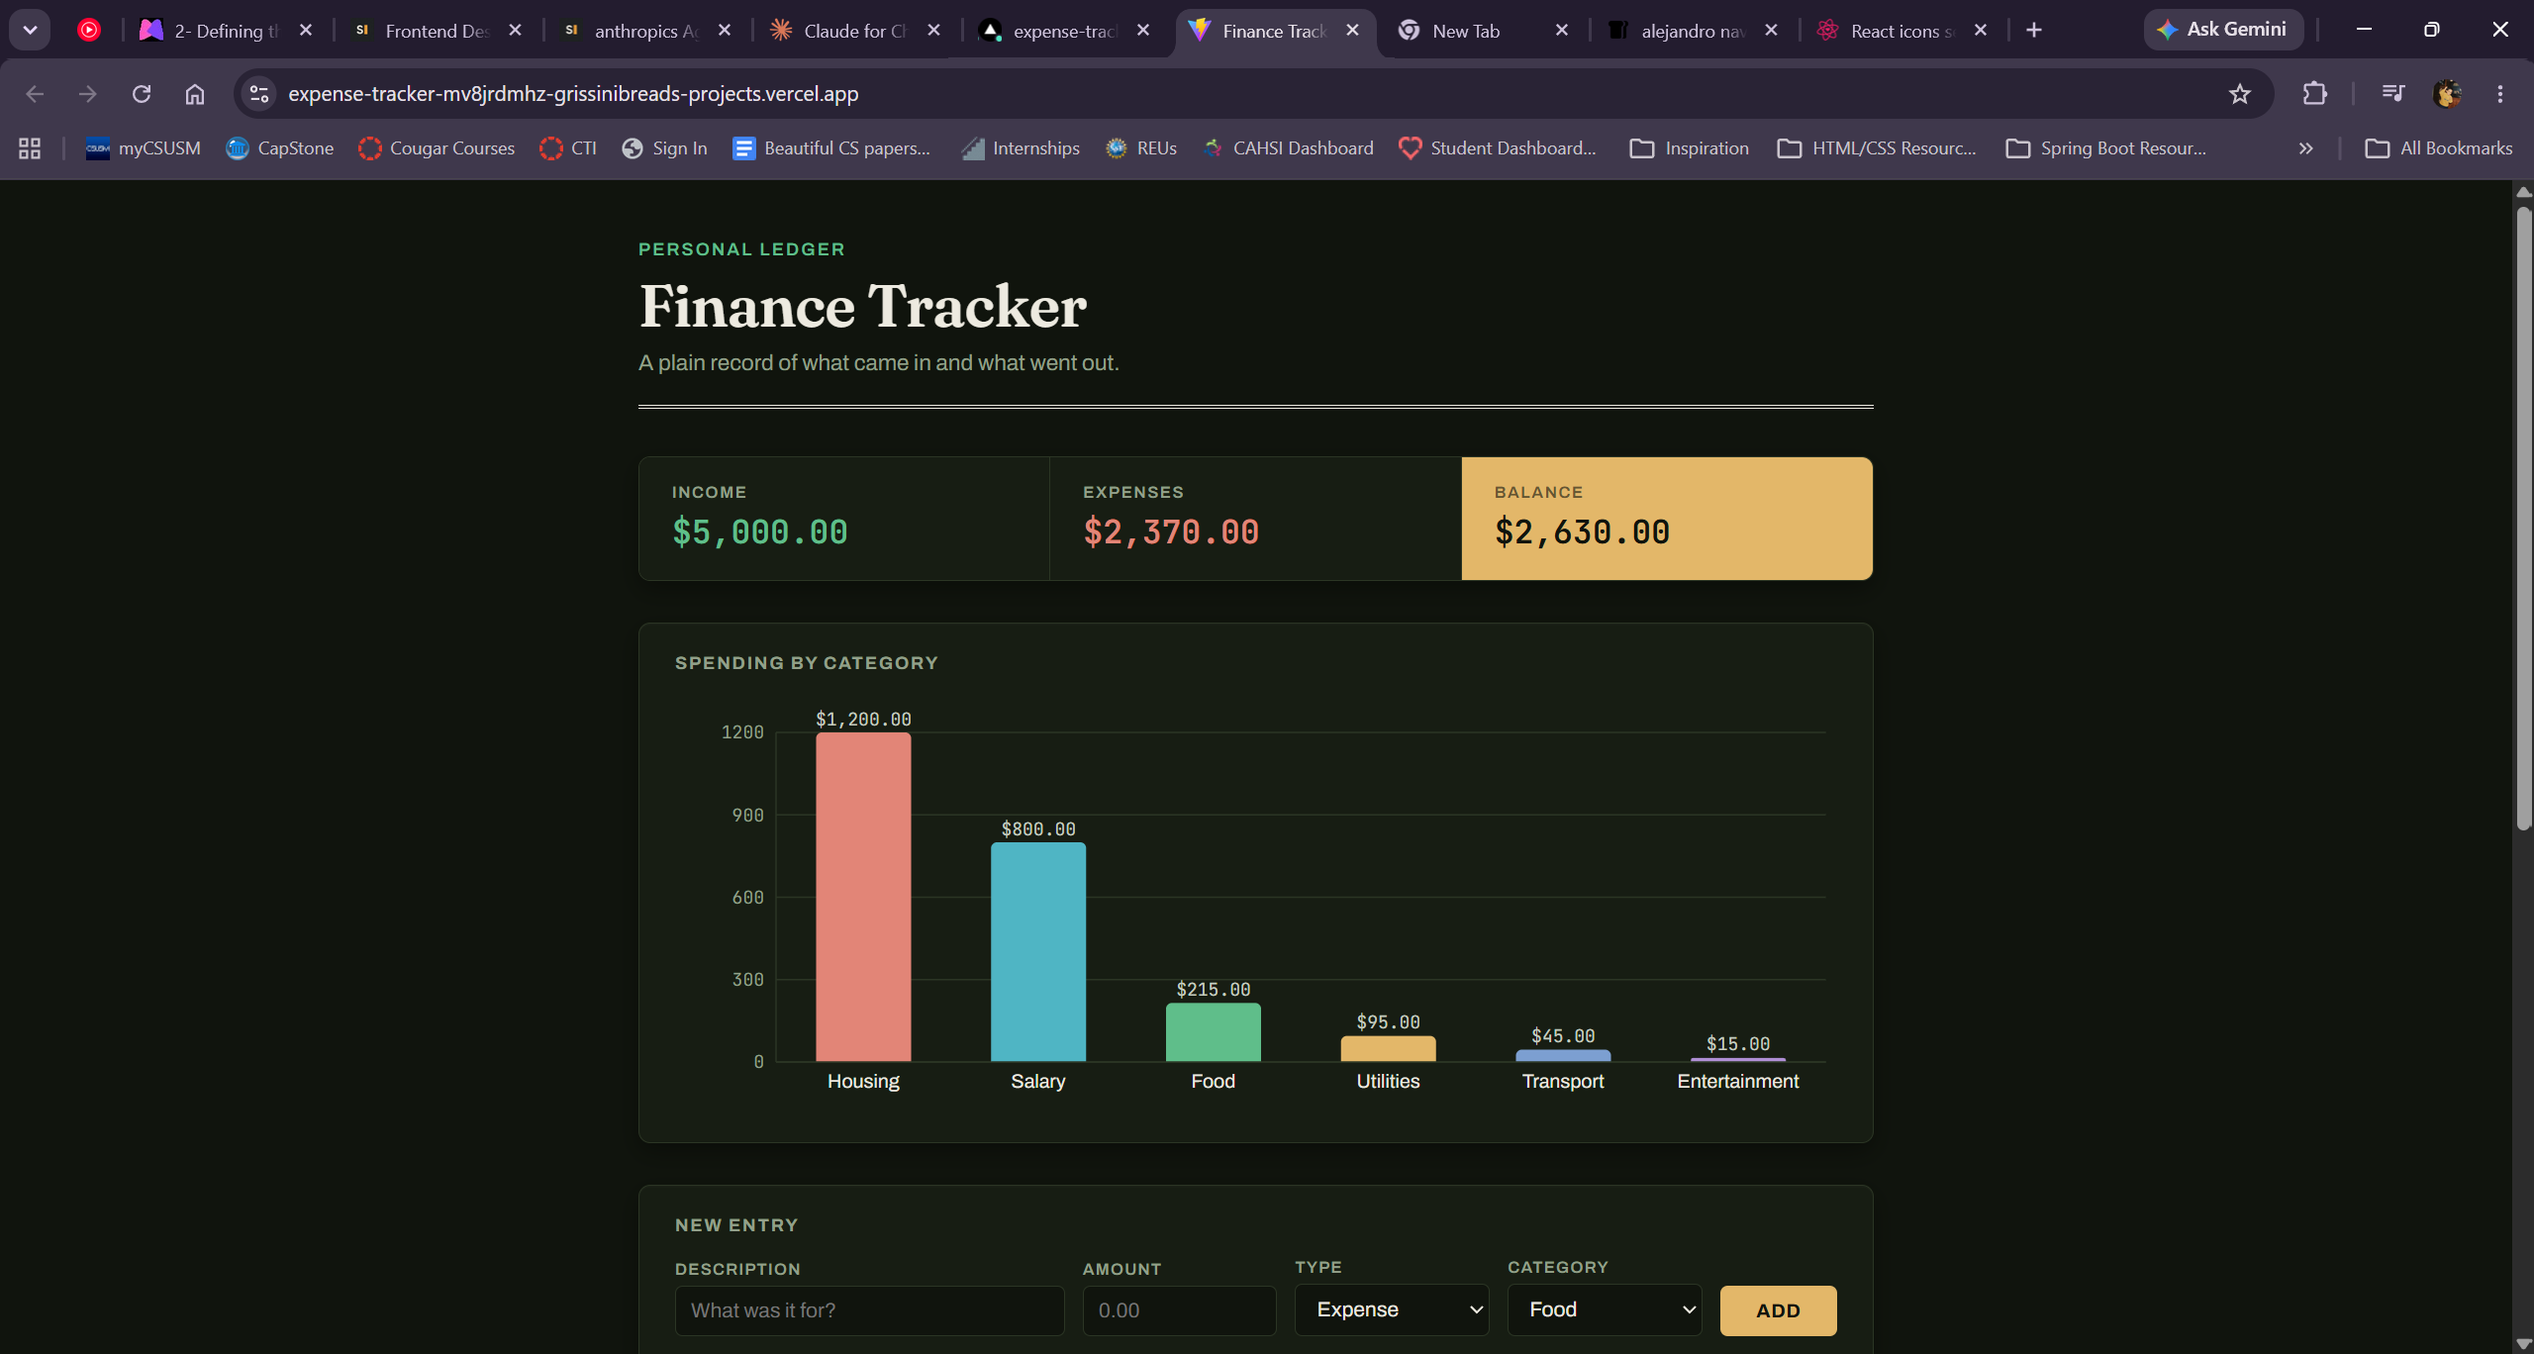
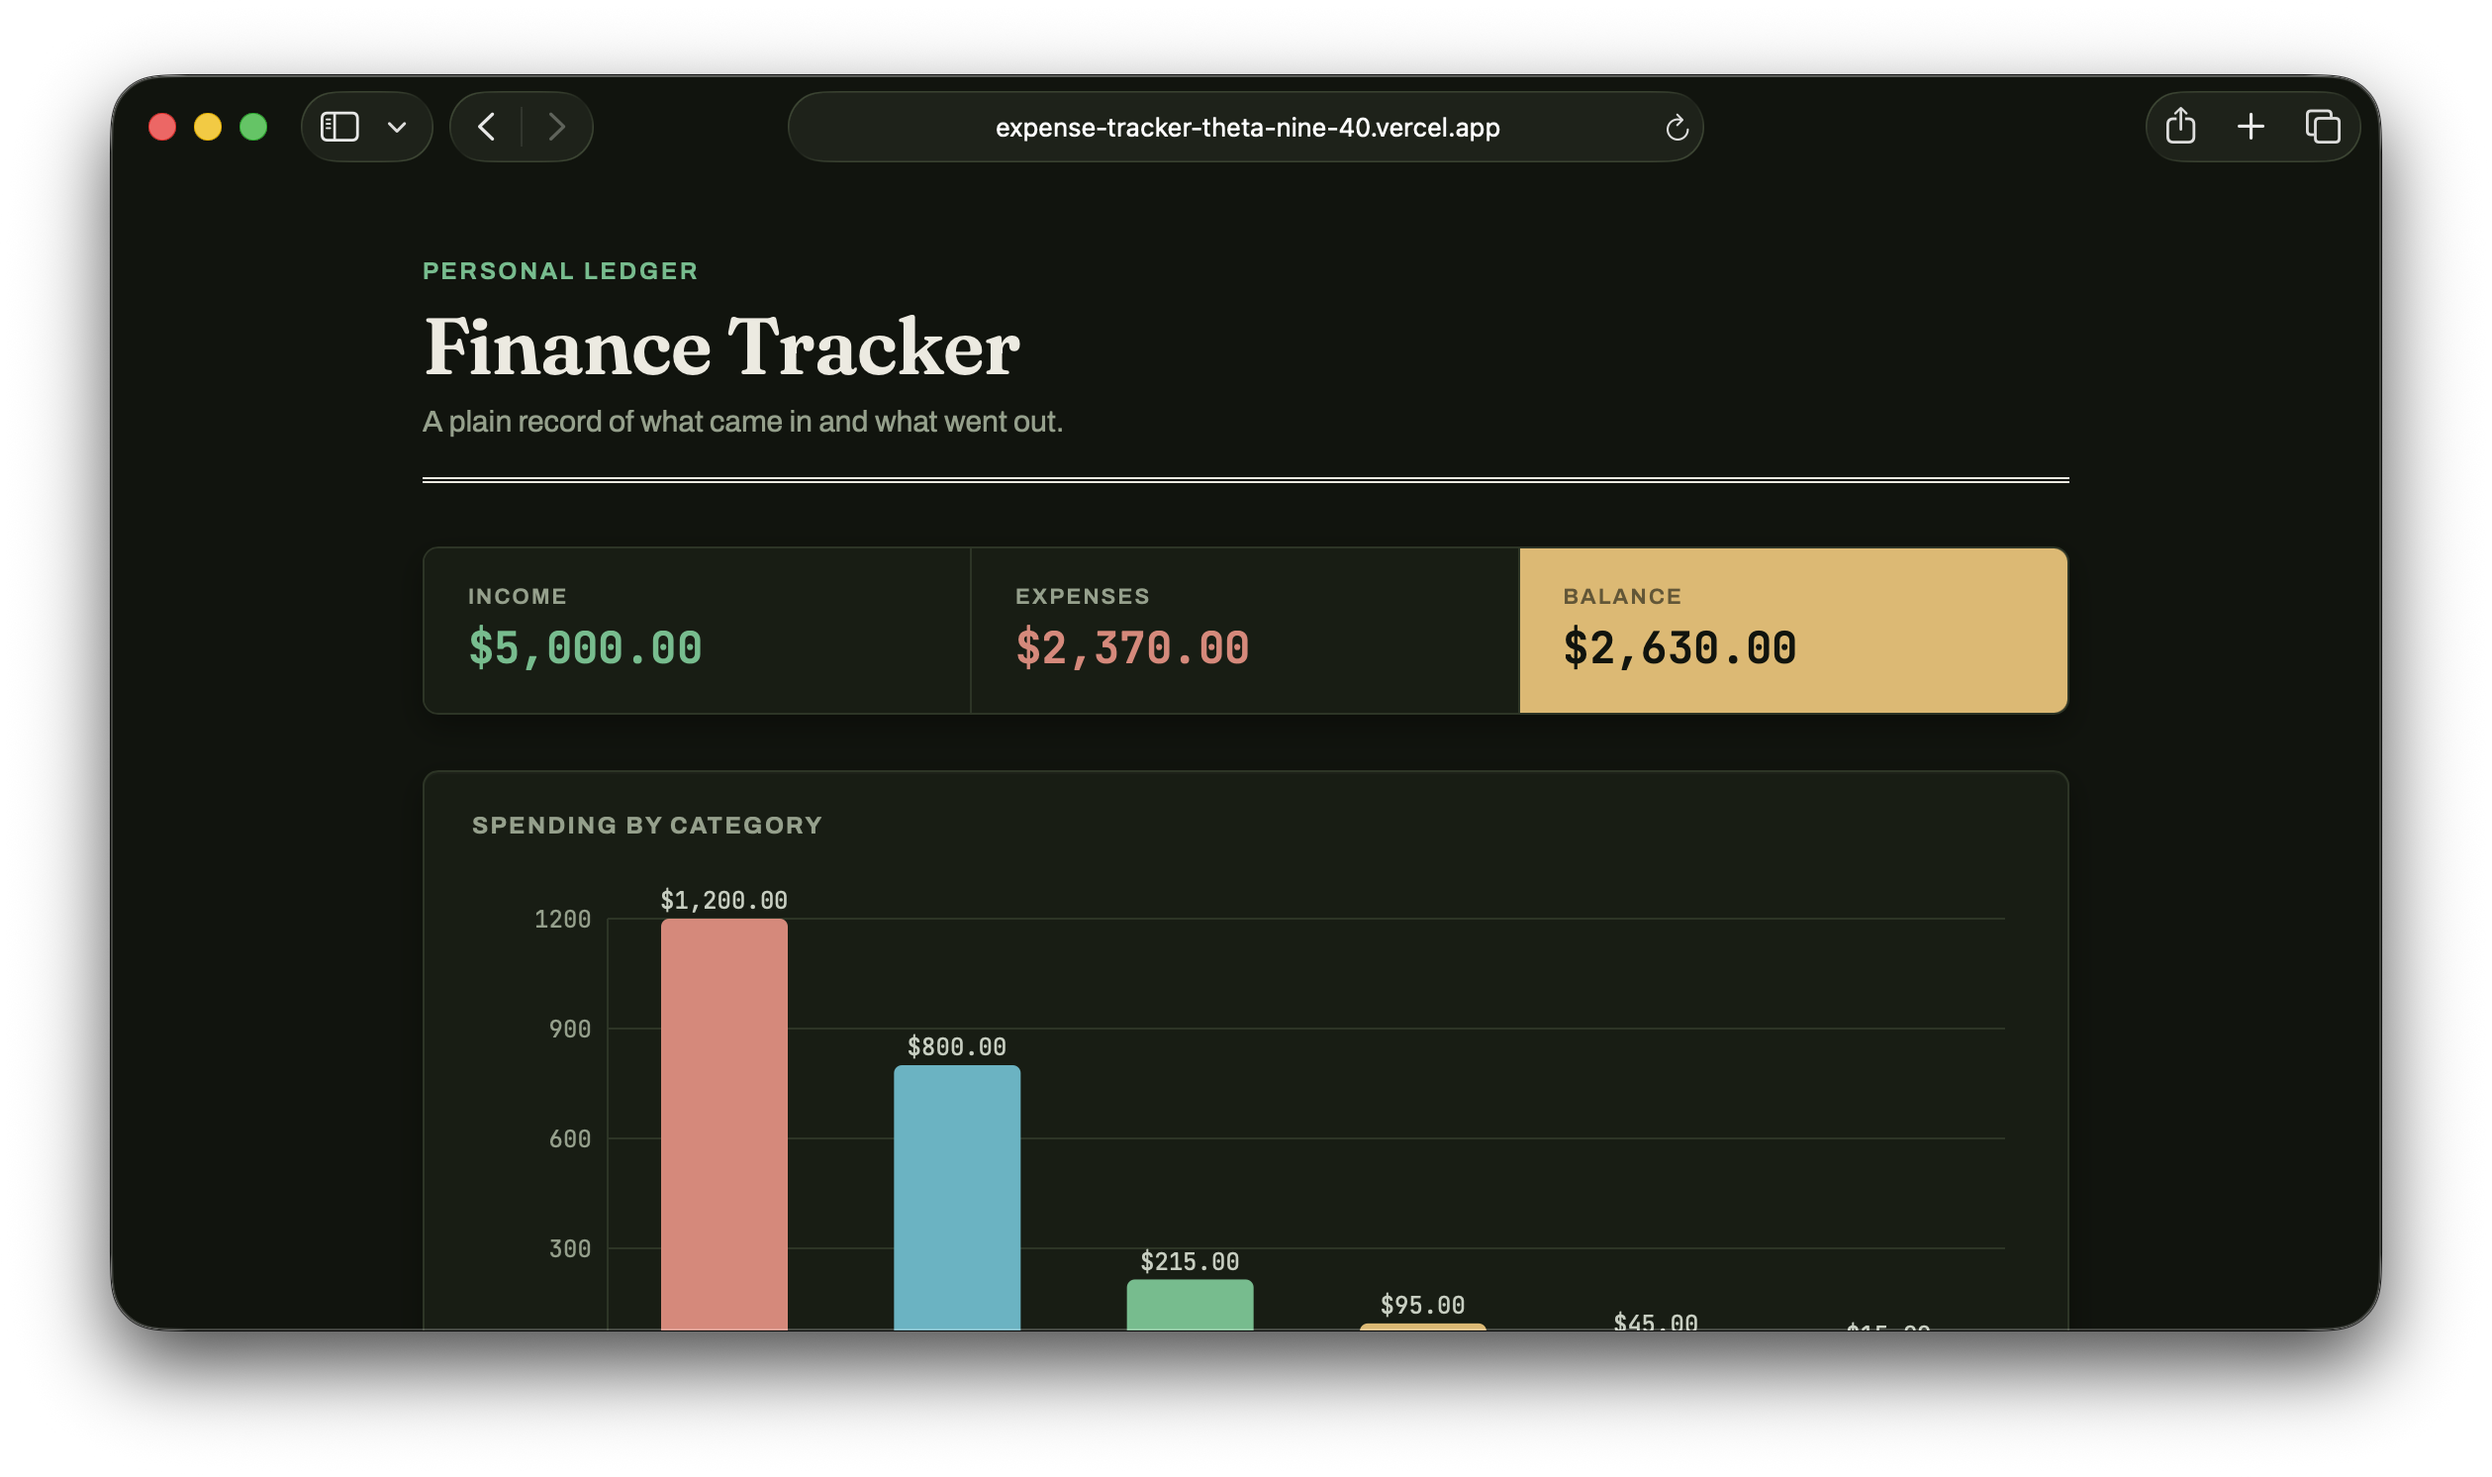
Fixed expense tracker project card

diff --git a/src/components/data/Projects.ts b/src/components/data/Projects.ts
@@ -19,7 +19,7 @@ export let projects: Project[] = [
       "Created a simple expense tracker alongside Claude.",
     technologies: ["claude", "react", "typescript"],
     image: expenseTracker,
-    link: "https://expense-tracker-mv8jrdmhz-grissinibreads-projects.vercel.app/",
+    link: "https://expense-tracker-theta-nine-40.vercel.app/",
     linkType: "site",
   },
   {
